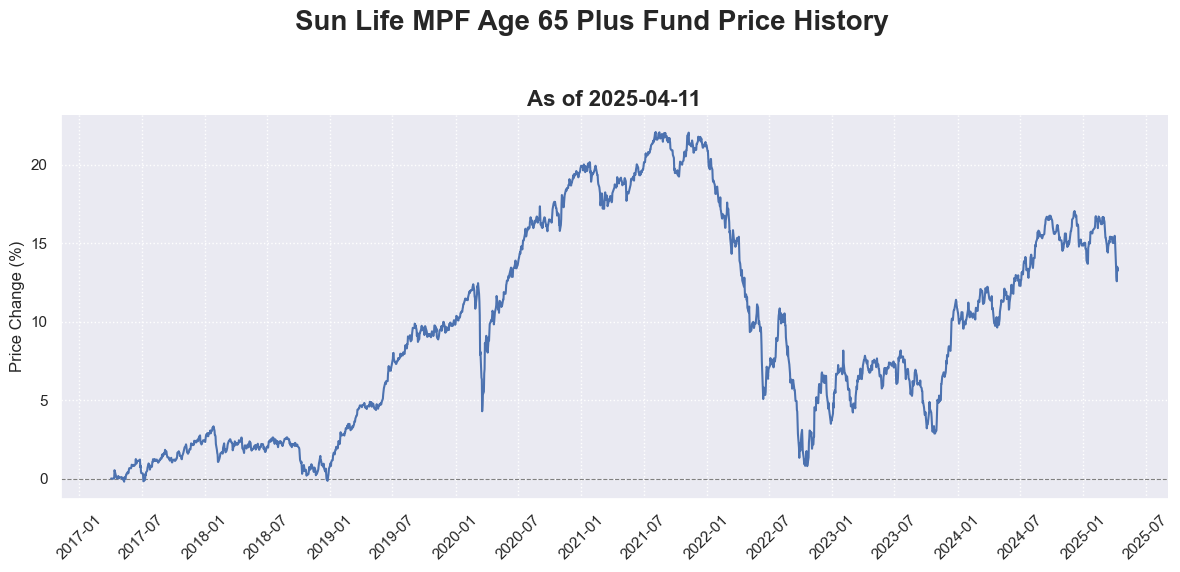
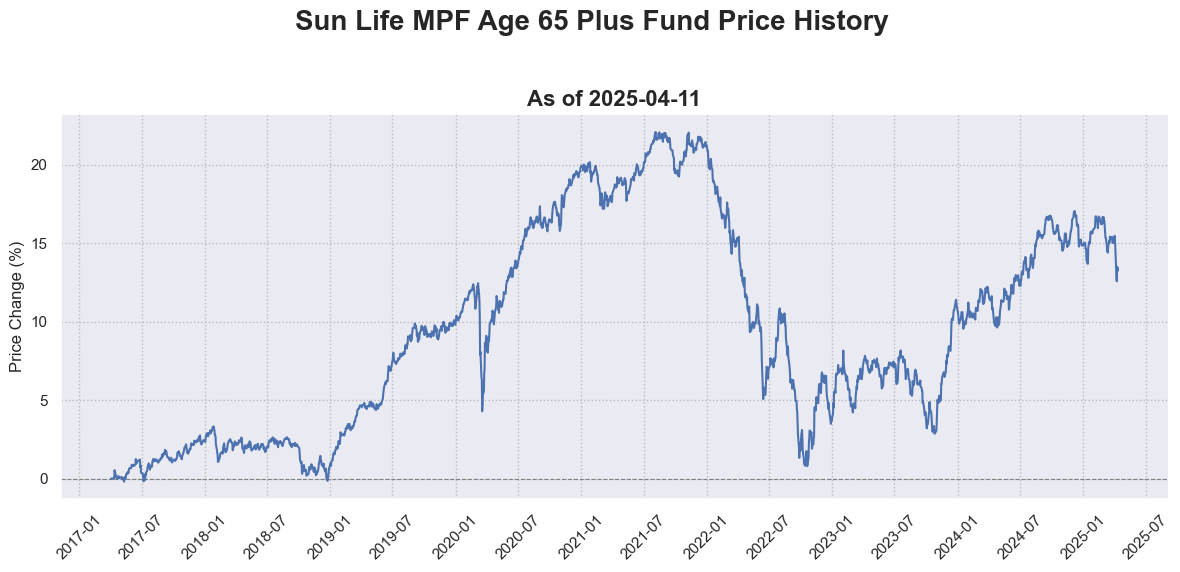
enhance styles

diff --git a/visualizer.py b/visualizer.py
@@ -80,7 +80,7 @@ def per_year():
             ax.plot(plot_df['date'], plot_df['price_change'], label=abbr, linewidth=1.0)
         
         ax.legend(loc='upper left', fontsize=10, frameon=False, ncols=3)
-        ax.grid(True, linestyle=':', linewidth=1)
+        ax.grid(True, linestyle=':', linewidth=1, color='#bfbfbf')
         sns.despine()
 
         plt.tight_layout(rect=[0, 0.03, 1, 0.95])
@@ -140,7 +140,7 @@ def per_fund():
         plot_df = plot_df.reset_index()
         ax.plot(plot_df['date'], plot_df['price_change'], linewidth=1.5)
         
-        ax.grid(True, linestyle=':', linewidth=1)
+        ax.grid(True, linestyle=':', linewidth=1, color='#bfbfbf')
         sns.despine()
 
         plt.tight_layout(rect=[0, 0.03, 1, 0.95])
